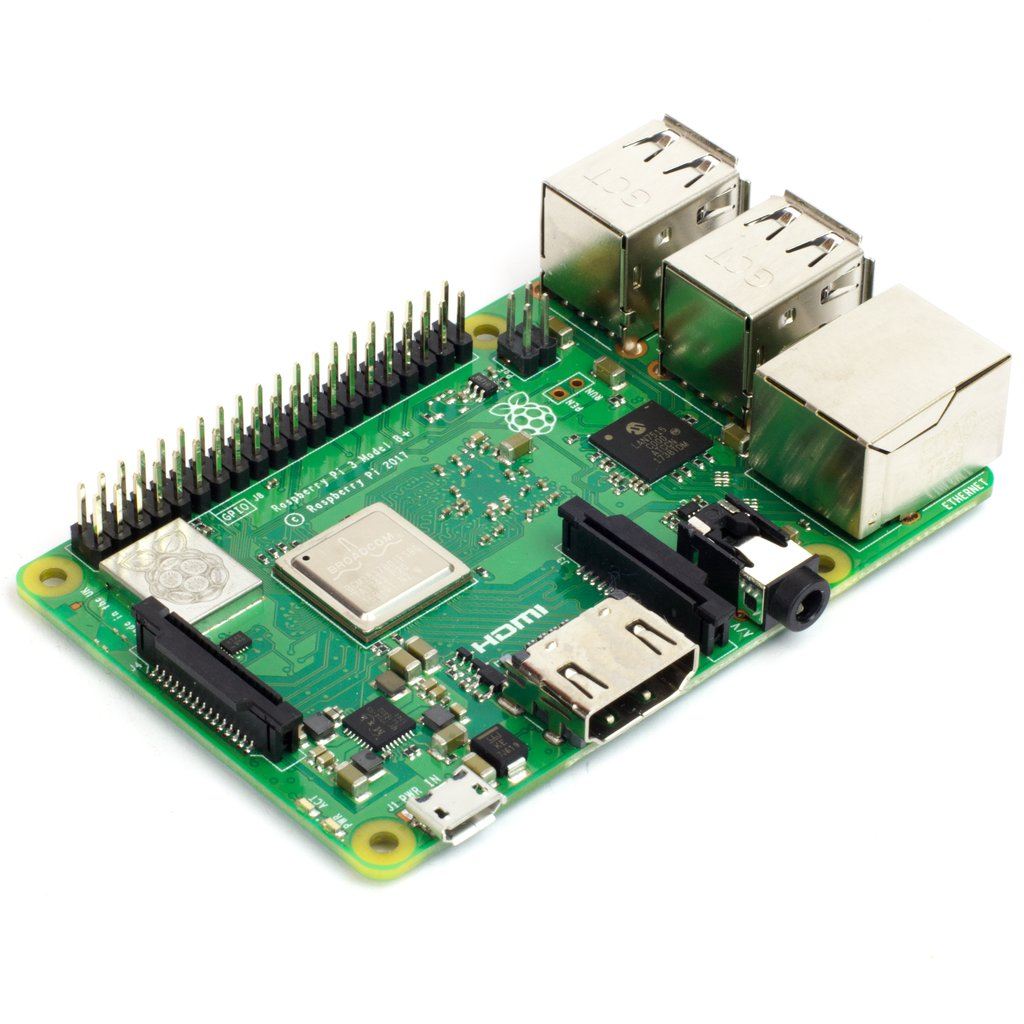
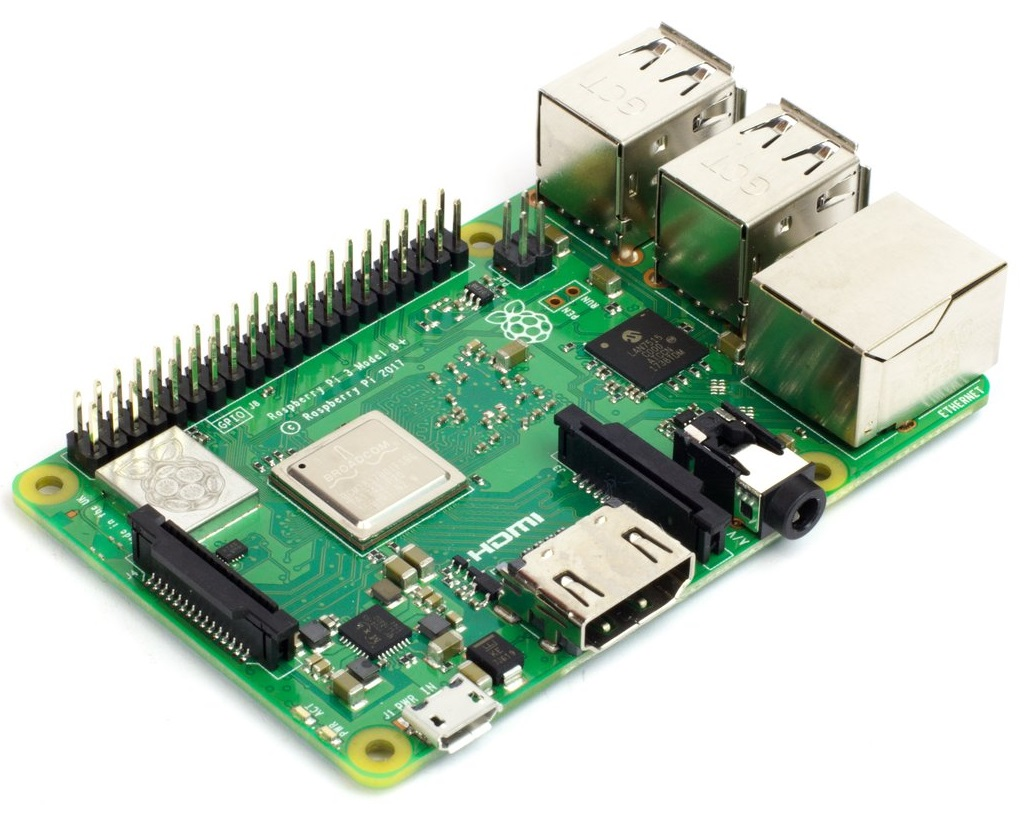
updated system comp

diff --git a/03_System_Components.tex b/03_System_Components.tex
@@ -5,16 +5,37 @@
 \bigskip
 
 \subsection{MCU - ESP32}
+\medskip
+ESP32 is a series of low-cost, low-power system on a chip microcontrollers with integrated Wi-Fi and dual-mode Bluetooth. Created and developed by Espressif, the ESP32 contains a Tensilica Xtensa LX6 microprocessor in both dual-core and single-core variations and includes a in-built antenna, power amplifier, low-noise receive amplifier, filters, and power-management modules (As shown in figure \ref{esp_core}) \cite{R3-1-1}. 
+
+\medskip
+\begin{figure}[H]
+\centering
+    \includegraphics[scale=0.4]{./images/esp_core.png}
+    \caption{ESP32 Architect Block Diagram}
+    \label{esp_core}
+\end{figure}
+
+For the proof of concept, the Bluetooth modules on the ESP32 will be used as the communication interface between the Beacon and the ID tags. Using BLE advertising, the ID Tags ESP32 broadcasts a unique MAC address. The Beacon ESP32 can collect all assicating ID Tag ESP32s and capture the RSSI and MAC of these devices. These information are forwarded to the DPU for distances establition and location plotting.
+
+\begin{figure}[H]
+\centering
+    \includegraphics[scale=0.25]{./images/esp.jpg}
+    \caption{ESP32 Development Board}
+    \label{esp}
+\end{figure}
 
 
+\pagebreak
+In the Final design the ESP32 will be incorporated as the main controller unit for both the beacons and ID tags but with Decawave DWM1000 UWB modules as the transceiver. For the beacons the ESP32’s Serial Peripheral Interface (SPI) will be used to interact with the Decawave DWM1000 UWB modules. As for the ID Tags, the ESP32 features a deep sleep mode which reduces power consumption to about 10uA from 260mA (active operations), thus drastically increasing the battery life time. Furthermore, with its wide range of capabilities such as Wi-FI and Bluetooth, a mesh network and be implemented to extend the communication range of the Beacons. A mock-up circuit diagram presenting the SPI interface between the ESP32 and a breakout board for DWM1000 is shown in figure \ref{eps_dwm_circuit}.
 
-
-
-
-
-
-
-
+\medskip
+\begin{figure}[H]
+\centering
+    \includegraphics[scale=0.5]{./images/eps_dwm_circuit.png}
+    \caption{Circuit Diagram of ESP32 \& DWM1000}
+    \label{eps_dwm_circuit}
+\end{figure}
 
 
 
@@ -44,13 +65,17 @@ The module enables the location tracking of objects in real time location system
 
 
 
-
-
 \pagebreak
 \subsection{DPU - Raspberry Pi}
 
 
-
+\medskip
+\begin{figure}[H]
+\centering
+    \includegraphics[scale=1]{./images/pi.jpg}
+    \caption{Raspberry Pi 3 B+ Model}
+    \label{pi}
+\end{figure}
 
 
 

diff --git a/05_Electrical_Design.tex b/05_Electrical_Design.tex
@@ -84,7 +84,7 @@ The system is designed for emergency disaster situations, it is crucial that suc
 \hline
 \textbf{REQ.EC.3 - P} &  The ID tags must have a manual switch to toggle power on \\
 \hline
-\textbf{REQ.EC.4 - P} &  The ID Tags must be powered by 4.5V rechargeable lithium ion battery\\
+\textbf{REQ.EC.4 - P} &  The ID Tags must be powered by 5V rechargeable lithium ion battery\\
 \hline
 \textbf{REQ.EC.5 - P} &  The ID tags must be under deep sleep mode drawing no more than 10 uA when not in emergency mode\\
 \hline
